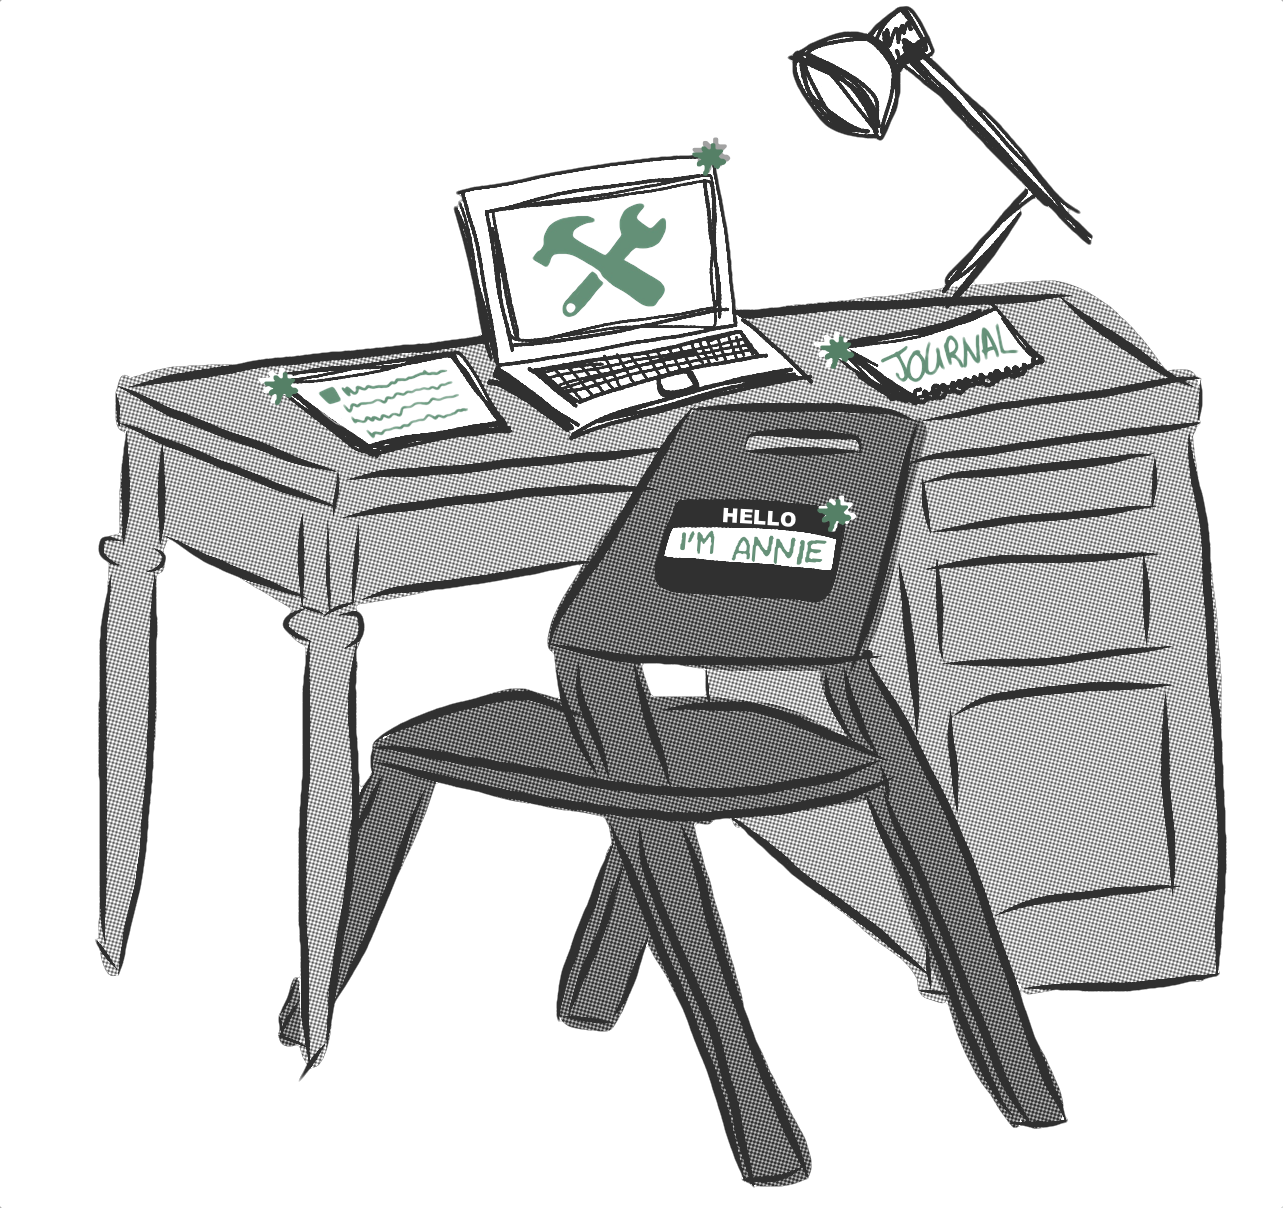
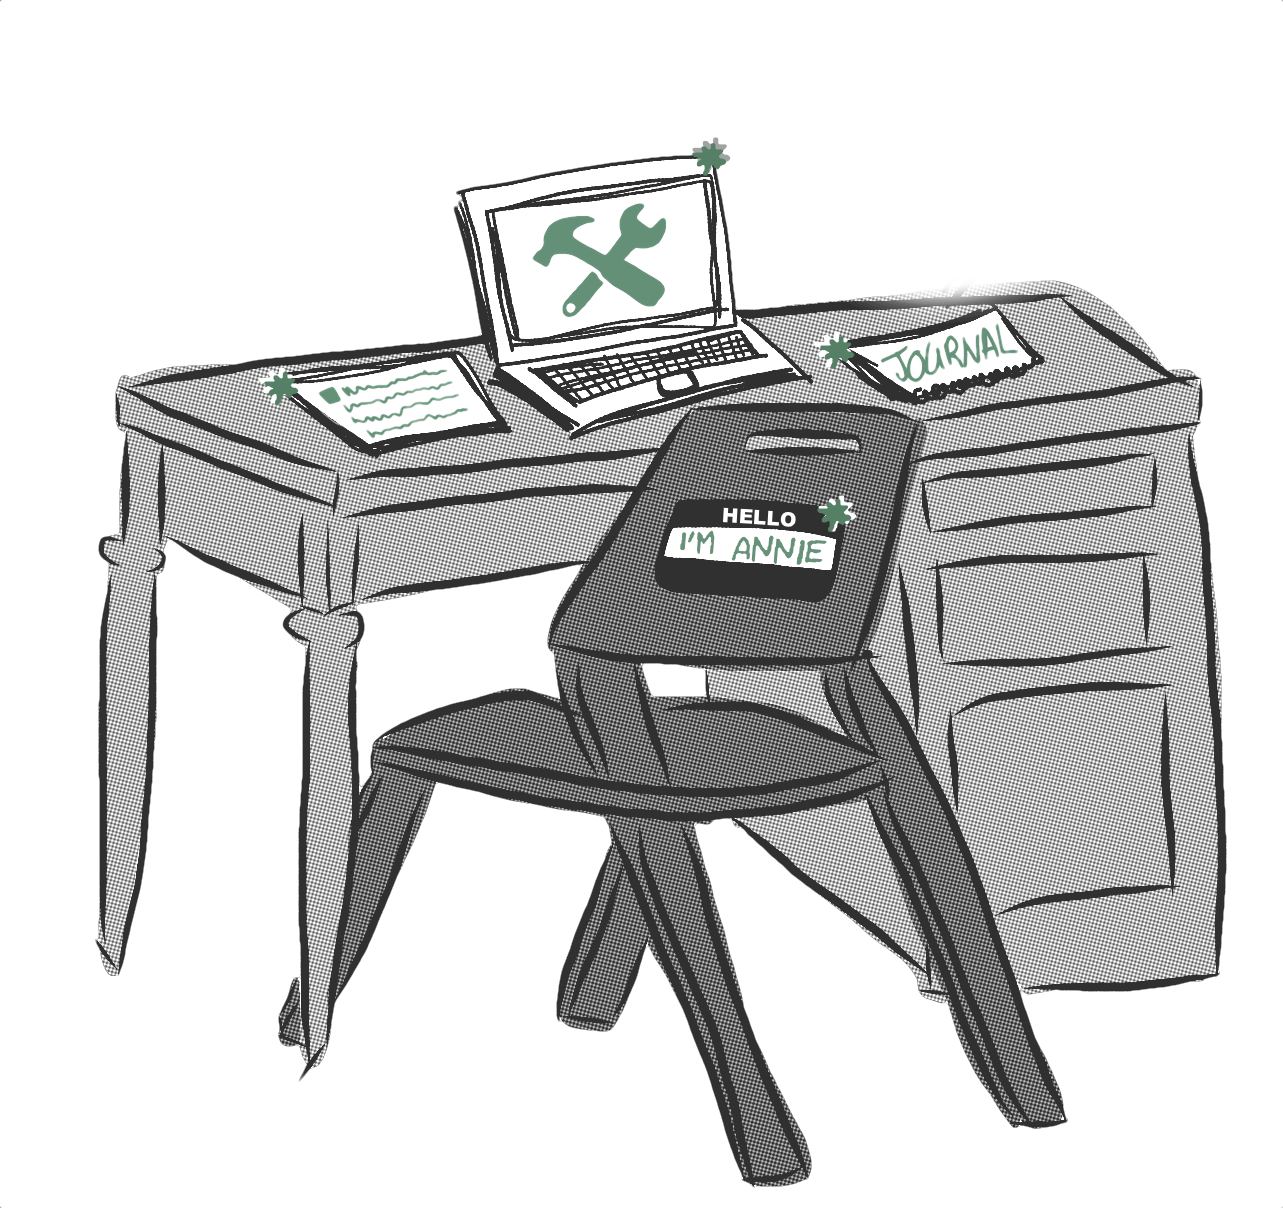
home done?

Changed region(s): [[0.5924, 0.0, 0.8418, 0.2757], [0.8418, 0.1838, 0.873, 0.2144]]

diff --git a/test.html b/test.html
@@ -116,21 +116,13 @@
         <!-- Home -->
         <div class="section">
             <div class="container">
-                <div class="row">
-                    <div class="col-md-3">
-                        <!-- empty column-->
-                    </div><!-- /.column-->
-                    <div class="col-md-6">
-                        <img class="img-responsive" src= "img/table.png" usemap="#table" alt="home">
-                        <map name="table">
-                            <area shape="rect" coords="50,50,82,126" href="#about" alt="about">
-
-                        </map>
-                    </div><!-- /.column-->
-                    <div class="col-md-3">
-                        <!-- empty column-->
-                    </div><!-- /.column-->
-                </div><!-- /.row-->
+                <img class="img-responsive" src= "img/table.png" width="500" height="475" style="margin: 0 auto;" usemap="#table" alt="home">
+                <map name="table">
+                    <area shape="rect" coords="250,200,325,230" href="#about" alt="about">
+                    <area shape="rect" coords="115,140,190,175" href="#resume" alt="resume">
+                    <area shape="rect" coords="200,80,275,125" href="#projects" alt="projects">
+                    <area shape="rect" coords="340,125,400,160" href="#more" alt="more">
+                </map>
             </div><!-- /.container-->
         </div><!-- /.section-->
 

diff --git a/css/new.css b/css/new.css
@@ -1,13 +1,5 @@
 /* Main CSS sheet for www.anniel.in 16a085 */
 
-
-
-/*
-                            <area shape="rect" coords="0,0,-20,-20" href="#resume" alt="resume">
-                            <area shape="rect" coords="0,0,20,20" href="#projects" alt="projects">
-                            <area shape="rect" coords="0,0,20,20" href="#more" alt="more">
-*/
-
 /* Fonts */
 @font-face {
 	font-family: passiontea;
@@ -57,7 +49,3 @@ a:active {text-decoration:none; color: #666;}
 #cog:visited {text-decoration:none; color: #16a085;}
 #cog:hover {text-decoration:none; color: #16a085;}
 #cog:active {text-decoration:none; color: #16a085}
-
-area {
-	 border: 25px solid navy;
-}
